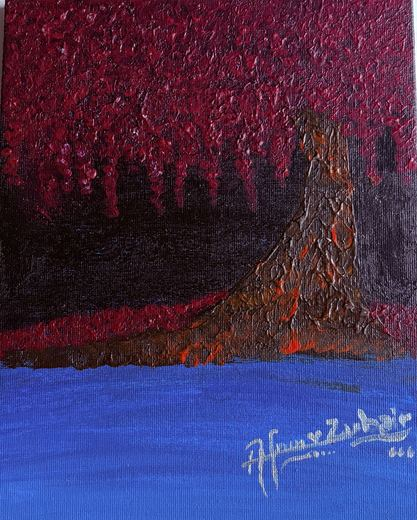
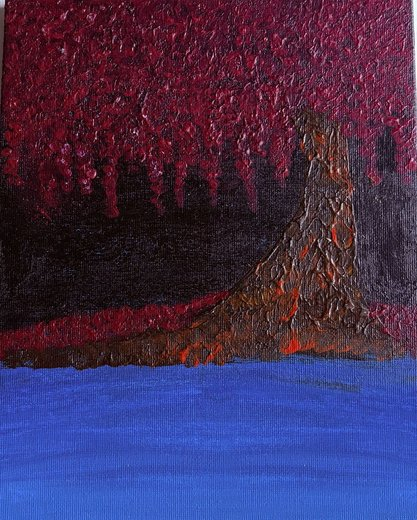
Add Certifications section (Google Cloud Professional Data Engineer) and retouch art-04

Changed region(s): [[0.5612, 0.7385, 1.0, 0.9846]]

diff --git a/index.html b/index.html
@@ -5,8 +5,8 @@
 <meta name="viewport" content="width=device-width, initial-scale=1.0">
 <title>Nikkat Afrin · AI &amp; Data Platform Engineer</title>
 <meta name="author" content="Nikkat Afrin">
-<meta name="description" content="AI &amp; Data Platform Engineer. First-author IEEE IJCNN 2025. Building speech AI, RAG systems, and cloud-native data platforms with Python, AWS and Azure.">
-<meta name="keywords" content="Nikkat Afrin, AI Engineer, Data Engineer, Machine Learning, RAG, Voice AI, Azure, AWS, Python, IEEE IJCNN, SigmaCam, Yeshiva University">
+<meta name="description" content="AI &amp; Data Platform Engineer. Google Cloud Certified Professional Data Engineer. First-author IEEE IJCNN 2025. Building speech AI, RAG systems, and cloud-native data platforms with Python, AWS and Azure.">
+<meta name="keywords" content="Nikkat Afrin, AI Engineer, Data Engineer, Google Cloud Professional Data Engineer, GCP certified, Machine Learning, RAG, Voice AI, Azure, AWS, Python, IEEE IJCNN, SigmaCam, Yeshiva University">
 <meta property="og:title" content="Nikkat Afrin · AI &amp; Data Platform Engineer">
 <meta property="og:description" content="First-author IEEE IJCNN 2025. Speech AI, RAG, and cloud-native data platforms.">
 <meta property="og:type" content="website">
@@ -318,6 +318,27 @@ h1{font-size:clamp(2.9rem,8.4vw,5.6rem);font-weight:700;line-height:.98;letter-s
 @media(hover:none){.aw-hint::before{content:'TAP'}.aw-hint{font-size:0}.aw-hint::before{font-size:.58rem}}
 @media(prefers-reduced-motion:reduce){.aw-in{transition:none}}
 
+/* ---------- certifications ---------- */
+.cert-grid{display:grid;grid-template-columns:repeat(auto-fill,minmax(min(100%,430px),1fr));gap:20px}
+.cert{display:flex;gap:20px;align-items:flex-start;text-decoration:none;color:inherit;padding:24px}
+.cert-badge{flex:0 0 104px;width:104px;height:104px;display:grid;place-items:center;border-radius:14px;
+  background:radial-gradient(circle at 50% 40%,rgba(255,255,255,.1),rgba(255,255,255,.03));
+  border:1px solid var(--line);transition:.32s}
+.cert:hover .cert-badge{border-color:var(--line-hi);transform:scale(1.04)}
+.cert-badge img{width:84px;height:84px;object-fit:contain;display:block}
+.cert-body{min-width:0;display:flex;flex-direction:column;gap:7px}
+.cert-tag{display:inline-flex;align-items:center;gap:7px;align-self:flex-start;
+  font-family:'JetBrains Mono',monospace;font-size:.62rem;letter-spacing:.13em;text-transform:uppercase;
+  color:var(--cy);border:1px solid var(--line-hi);border-radius:100px;padding:4px 11px}
+.cert-body h3{font-size:1.14rem;font-weight:700;letter-spacing:-.01em;line-height:1.3;margin:0}
+.cert-org{color:var(--faint);font-size:.85rem;font-weight:500}
+.cert-meta{font-family:'JetBrains Mono',monospace;font-size:.7rem;letter-spacing:.08em;
+  color:var(--faint);display:flex;flex-wrap:wrap;gap:6px 14px}
+.cert-desc{color:var(--dim);font-size:.9rem;line-height:1.6;margin:2px 0 0}
+.cert .lnk{margin-top:4px}
+@media(max-width:520px){.cert{flex-direction:column;gap:16px}
+  .cert-badge{flex-basis:auto;width:88px;height:88px}.cert-badge img{width:70px;height:70px}}
+
 /* ---------- experience cards ---------- */
 .xp{display:grid;gap:18px}
 .xp-card{background:var(--panel);border:1px solid var(--line);border-radius:16px;padding:24px 26px;
@@ -531,6 +552,7 @@ footer .q{font-style:italic;color:var(--dim);margin-bottom:8px}
       <a href="#research">Research</a>
       <a href="#work">Projects</a>
       <a href="#awards">Awards</a>
+      <a href="#certifications">Certifications</a>
       <a href="#skills">Skills</a>
       <a href="#creative">Creative</a>
       <a href="#contact" class="nav-cta">Contact</a>
@@ -995,10 +1017,37 @@ footer .q{font-style:italic;color:var(--dim);margin-bottom:8px}
 </section>
 
 
+<!-- ================= CERTIFICATIONS ================= -->
+<section id="certifications">
+  <div class="rv">
+    <div class="eyebrow">06 / Credentials</div>
+    <h2 class="sec">Certifications &amp; <span class="grad">licences</span></h2>
+    <p class="sec-sub">Verified credentials. Every badge links straight to the issuer for verification.</p>
+  </div>
+  <div class="cert-grid">
+
+    <a class="card cert rv" href="https://www.credly.com/badges/d0c55214-bba5-4be8-843e-b3e6bb7d40fe/public_url" target="_blank" rel="noopener">
+      <div class="cert-badge">
+        <img src="assets/certs/gcp-pde.png" alt="Google Cloud Certified Professional Data Engineer badge" width="84" height="84" loading="lazy" decoding="async">
+      </div>
+      <div class="cert-body">
+        <span class="cert-tag">◈ Active</span>
+        <h3>Professional Data Engineer</h3>
+        <div class="cert-org">Google Cloud</div>
+        <div class="cert-meta"><span>ISSUED AUG 2026</span><span>EXPIRES AUG 2028</span></div>
+        <p class="cert-desc">Designing, building and operationalising data processing systems on Google Cloud, including BigQuery, Dataflow, Pub/Sub and Dataproc, with a focus on reliability, security and machine-learning readiness.</p>
+        <span class="lnk">Verify on Credly →</span>
+      </div>
+    </a>
+
+  </div>
+</section>
+
+
 <!-- ================= SKILLS ================= -->
 <section id="skills">
   <div class="rv">
-    <div class="eyebrow">06 / Toolkit</div>
+    <div class="eyebrow">07 / Toolkit</div>
     <h2 class="sec">Technologies I <span class="grad">work in</span></h2>
   </div>
   <div class="sk-grid" id="skgrid"></div>
@@ -1008,7 +1057,7 @@ footer .q{font-style:italic;color:var(--dim);margin-bottom:8px}
 <!-- ================= CREATIVE ================= -->
 <section id="creative">
   <div class="rv">
-    <div class="eyebrow">07 / Creative</div>
+    <div class="eyebrow">08 / Creative</div>
     <h2 class="sec">Sand, canvas &amp; <span class="grad">a hot pan</span></h2>
     <p class="sec-sub">
       I cook and I paint with sand. It's the same instinct as engineering, honestly. Take
@@ -1050,7 +1099,7 @@ footer .q{font-style:italic;color:var(--dim);margin-bottom:8px}
 <!-- ================= CONTACT ================= -->
 <section id="contact">
   <div class="contact rv">
-    <div class="eyebrow">08 / Contact</div>
+    <div class="eyebrow">09 / Contact</div>
     <h2 class="sec">Let's build something <span class="grad">meaningful</span></h2>
     <p class="sec-sub" style="margin:0 auto 0">
       I'm open to roles and collaboration in <b>AI/ML engineering, data platforms, and applied AI research</b>.
